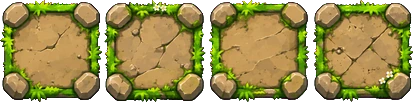
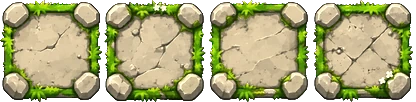
Луг: плиты под башни светлого кремового камня
Claude-Session: https://claude.ai/code/session_013R86rVRDV7uvtfdFLL6VJw

diff --git a/sw.js b/sw.js
@@ -1,6 +1,6 @@
-/* «Две базы» offline cache, version 2026.11.13-1836. A new version of this file makes phones fetch the new game;
+/* «Две базы» offline cache, version 2026.11.13-1851. A new version of this file makes phones fetch the new game;
    files whose content didn't change are copied from the old cache instead of downloaded again. */
-const V='dvebazy-2026.11.13-1836',H={"base_blue.webp": "3fa30d2184", "base_red.webp": "7dbdedfcd1", "crater.webp": "f8f526da4a", "crystal.webp": "3a4d69ffd7", "crystal_empty.webp": "e0bfd176b7", "desert.mp3": "4e820be7a4", "field_empty.webp": "1a89de323f", "field_full.webp": "5ce65390f6", "forest.mp3": "4d73b83bec", "hq_blue.webp": "9fd8e7e807", "hq_red.webp": "971d8873b5", "hv_e_blue.webp": "0fb54e58f2", "hv_e_red.webp": "dadb0cb8e0", "hv_f_blue.webp": "0eaca5d65e", "hv_f_red.webp": "1a6f973922", "intro.mp3": "d06e8482e9", "lost.mp3": "640926f4fa", "nuke.webp": "3bd289d94c", "ref_blue.webp": "55d23168b2", "ref_red.webp": "3c357584ff", "rocket.webp": "071c1a603f", "titan.mp3": "74a7fba796", "titan_hull_blue.webp": "b95fc02d02", "titan_hull_red.webp": "bc3479a55e", "titan_tur_blue.webp": "3a694cdb51", "titan_tur_red.webp": "4c836f3f95", "tw_can_blue.webp": "39c2cdb5df", "tw_can_red.webp": "11768d7b6d", "tw_mg_blue.webp": "f2a7462850", "tw_mg_red.webp": "b13edf318a", "tw_rkt_blue.webp": "890841b140", "tw_rkt_red.webp": "1cd20dd65c", "tw_tes_blue.webp": "f8dbac1346", "tw_tes_red.webp": "35dace5877", "victory.mp3": "86da21c965", "wave.webp": "02e3191a09", "winter.mp3": "c049c90e71", "voice_balist1.mp3": "a809bffd15", "voice_batk1.mp3": "bc1cce2b93", "voice_bomb1.mp3": "3e85b9b9dc", "voice_first1.mp3": "5d89f62894", "voice_first2.mp3": "6f591c10d3", "voice_first3.mp3": "de270f2917", "voice_first4.mp3": "52d929dd20", "voice_first5.mp3": "475b1aa197", "voice_first6.mp3": "d2ce90c984", "voice_first7.mp3": "222510fe73", "voice_hvdie1.mp3": "c1c6b9d714", "voice_loh1.mp3": "21e001d1e4", "voice_loh10.mp3": "41e66ff026", "voice_loh2.mp3": "e7da3dd047", "voice_loh3.mp3": "5cc145f5da", "voice_loh4.mp3": "58b7b9dbe7", "voice_loh5.mp3": "1426e425ce", "voice_loh6.mp3": "2053d0fb8a", "voice_loh7.mp3": "b546dc0fcb", "voice_loh8.mp3": "373d27d207", "voice_loh9.mp3": "ee76b7cbbf", "voice_lose1.mp3": "0965212c4d", "voice_lose2.mp3": "0272edf688", "voice_lose3.mp3": "fcb16aa0a5", "voice_lose4.mp3": "f4663fb4e3", "voice_lose5.mp3": "606ac4c1cf", "voice_lose6.mp3": "83a1fe1747", "voice_mazor1.mp3": "0a2f8341b5", "voice_mazor2.mp3": "2d0ef74267", "voice_mine2.mp3": "5ebf9d3ec6", "voice_mset1.mp3": "a35afbeb82", "voice_mvz1.mp3": "77e6ee09e0", "voice_mvz2.mp3": "fb090a12ca", "voice_nkb1.mp3": "52d38c9324", "voice_nkb2.mp3": "01c40b5760", "voice_nkb3.mp3": "39fe27bdf7", "voice_nkb4.mp3": "64aef97f88", "voice_nkb5.mp3": "4d31a020df", "voice_nkb6.mp3": "789a890588", "voice_nuke2.mp3": "8ca89b5589", "voice_ogon1.mp3": "c9d67acb12", "voice_orud1.mp3": "3026d1e2ee", "voice_rzap1.mp3": "2e0d131a35", "voice_vrag1.mp3": "028cb3b269", "voice_vrag2.mp3": "2e10b723e9", "voice_vrag3.mp3": "6079f5e810", "voice_vrag4.mp3": "8f7fa0ef37", "voice_vrag5.mp3": "e94b070c67", "voice_vrag6.mp3": "cb9915cce8", "voice_vrag7.mp3": "7ed2c5a974", "voice_vrag8.mp3": "48edfe60b2", "voice_vrag9.mp3": "8b0f4d86ee", "voice_win1.mp3": "f3f0a603b5", "voice_win2.mp3": "12950c5326", "voice_win3.mp3": "62d5e009ec", "voice_win4.mp3": "c6f262900b", "voice_win5.mp3": "63d2a5f9c8", "voice_bomb2.mp3": "2a7dccab6b", "voice_bomb3.mp3": "9939c42554", "voice_bomb4.mp3": "ae8e689c51", "voice_bomb5.mp3": "a8e38dbf99", "voice_bomb6.mp3": "5ad7691213", "voice_bomb7.mp3": "68265021c3", "voice_mset2.mp3": "e2e92e7433", "voice_mset3.mp3": "a9811a1536", "voice_mset4.mp3": "8173956a14", "voice_tout1.mp3": "e36d93eff4", "voice_tout2.mp3": "32e7428350", "voice_tout3.mp3": "9fca62bcdf", "voice_tout4.mp3": "3e314749bc", "voice_tout5.mp3": "5fcc940e4d", "voice_tout6.mp3": "fac430fb0f", "voice_tout7.mp3": "979fea3bea", "voice_tout8.mp3": "01a95c5d7b", "voice_tout9.mp3": "6bfcb1b4f9", "voice_etout1.mp3": "43c1b6aaf3", "voice_etout2.mp3": "bd5d728dc7", "voice_etout3.mp3": "9fd5dfc497", "voice_etout4.mp3": "781294a546", "voice_etout5.mp3": "d430e427bc", "voice_orud2.mp3": "aa9e1b81be", "voice_orud3.mp3": "705171a146", "voice_orud4.mp3": "238aca5997", "voice_orud5.mp3": "339952603c", "voice_tlow1.mp3": "785ec7eec0", "voice_tlow2.mp3": "96d601ac89", "voice_tlow3.mp3": "74a22eaaeb", "voice_tlow4.mp3": "fe8e1de87d", "voice_tlow5.mp3": "3cc923bbde", "voice_tlow6.mp3": "4c544afc32", "voice_tlow7.mp3": "32148d5608", "voice_tlow8.mp3": "aa26e23409", "voice_tlow9.mp3": "3085b4d856", "sw2_grass.webp": "ae9bb5b54f", "sw2_mud.webp": "be0d1aced4", "sw2_water.webp": "e2eb74a170", "sw2_atlas.webp": "427607d22b", "sw2_atlas2.webp": "8e1c286c2d", "sw2_pads.webp": "1d18fc9a44", "sw2_atlas3.webp": "28ae61a313", "campaign_map.webp": "a477e42c26", "camp_flags.webp": "bdd397d7fb", "gate_l.webp": "33dd6c659c", "gate_r.webp": "bce02067fe", "gate_logo.webp": "975690c1a2", "hg_icons_free.webp": "910e6c103f", "hg_icons_sup.webp": "25639c2240", "hg_icons_harv.webp": "787070f3e2", "hg_icons_tow.webp": "7943557806", "hg_icons_tit.webp": "2a0621a74b", "mrd_s.webp": "9e3aaed637", "mrd_c.webp": "9969b8a8a2", "meadow_pads.webp": "53b35c03c0", "manifest.webmanifest": "7015537d8d", "icon-192.png": "3f01f503e0", "icon-512.png": "ea3305bba6", "icon-180.png": "5713f46e1f", "splash-512.png": "03f3510d8f"};
+const V='dvebazy-2026.11.13-1851',H={"base_blue.webp": "3fa30d2184", "base_red.webp": "7dbdedfcd1", "crater.webp": "f8f526da4a", "crystal.webp": "3a4d69ffd7", "crystal_empty.webp": "e0bfd176b7", "desert.mp3": "4e820be7a4", "field_empty.webp": "1a89de323f", "field_full.webp": "5ce65390f6", "forest.mp3": "4d73b83bec", "hq_blue.webp": "9fd8e7e807", "hq_red.webp": "971d8873b5", "hv_e_blue.webp": "0fb54e58f2", "hv_e_red.webp": "dadb0cb8e0", "hv_f_blue.webp": "0eaca5d65e", "hv_f_red.webp": "1a6f973922", "intro.mp3": "d06e8482e9", "lost.mp3": "640926f4fa", "nuke.webp": "3bd289d94c", "ref_blue.webp": "55d23168b2", "ref_red.webp": "3c357584ff", "rocket.webp": "071c1a603f", "titan.mp3": "74a7fba796", "titan_hull_blue.webp": "b95fc02d02", "titan_hull_red.webp": "bc3479a55e", "titan_tur_blue.webp": "3a694cdb51", "titan_tur_red.webp": "4c836f3f95", "tw_can_blue.webp": "39c2cdb5df", "tw_can_red.webp": "11768d7b6d", "tw_mg_blue.webp": "f2a7462850", "tw_mg_red.webp": "b13edf318a", "tw_rkt_blue.webp": "890841b140", "tw_rkt_red.webp": "1cd20dd65c", "tw_tes_blue.webp": "f8dbac1346", "tw_tes_red.webp": "35dace5877", "victory.mp3": "86da21c965", "wave.webp": "02e3191a09", "winter.mp3": "c049c90e71", "voice_balist1.mp3": "a809bffd15", "voice_batk1.mp3": "bc1cce2b93", "voice_bomb1.mp3": "3e85b9b9dc", "voice_first1.mp3": "5d89f62894", "voice_first2.mp3": "6f591c10d3", "voice_first3.mp3": "de270f2917", "voice_first4.mp3": "52d929dd20", "voice_first5.mp3": "475b1aa197", "voice_first6.mp3": "d2ce90c984", "voice_first7.mp3": "222510fe73", "voice_hvdie1.mp3": "c1c6b9d714", "voice_loh1.mp3": "21e001d1e4", "voice_loh10.mp3": "41e66ff026", "voice_loh2.mp3": "e7da3dd047", "voice_loh3.mp3": "5cc145f5da", "voice_loh4.mp3": "58b7b9dbe7", "voice_loh5.mp3": "1426e425ce", "voice_loh6.mp3": "2053d0fb8a", "voice_loh7.mp3": "b546dc0fcb", "voice_loh8.mp3": "373d27d207", "voice_loh9.mp3": "ee76b7cbbf", "voice_lose1.mp3": "0965212c4d", "voice_lose2.mp3": "0272edf688", "voice_lose3.mp3": "fcb16aa0a5", "voice_lose4.mp3": "f4663fb4e3", "voice_lose5.mp3": "606ac4c1cf", "voice_lose6.mp3": "83a1fe1747", "voice_mazor1.mp3": "0a2f8341b5", "voice_mazor2.mp3": "2d0ef74267", "voice_mine2.mp3": "5ebf9d3ec6", "voice_mset1.mp3": "a35afbeb82", "voice_mvz1.mp3": "77e6ee09e0", "voice_mvz2.mp3": "fb090a12ca", "voice_nkb1.mp3": "52d38c9324", "voice_nkb2.mp3": "01c40b5760", "voice_nkb3.mp3": "39fe27bdf7", "voice_nkb4.mp3": "64aef97f88", "voice_nkb5.mp3": "4d31a020df", "voice_nkb6.mp3": "789a890588", "voice_nuke2.mp3": "8ca89b5589", "voice_ogon1.mp3": "c9d67acb12", "voice_orud1.mp3": "3026d1e2ee", "voice_rzap1.mp3": "2e0d131a35", "voice_vrag1.mp3": "028cb3b269", "voice_vrag2.mp3": "2e10b723e9", "voice_vrag3.mp3": "6079f5e810", "voice_vrag4.mp3": "8f7fa0ef37", "voice_vrag5.mp3": "e94b070c67", "voice_vrag6.mp3": "cb9915cce8", "voice_vrag7.mp3": "7ed2c5a974", "voice_vrag8.mp3": "48edfe60b2", "voice_vrag9.mp3": "8b0f4d86ee", "voice_win1.mp3": "f3f0a603b5", "voice_win2.mp3": "12950c5326", "voice_win3.mp3": "62d5e009ec", "voice_win4.mp3": "c6f262900b", "voice_win5.mp3": "63d2a5f9c8", "voice_bomb2.mp3": "2a7dccab6b", "voice_bomb3.mp3": "9939c42554", "voice_bomb4.mp3": "ae8e689c51", "voice_bomb5.mp3": "a8e38dbf99", "voice_bomb6.mp3": "5ad7691213", "voice_bomb7.mp3": "68265021c3", "voice_mset2.mp3": "e2e92e7433", "voice_mset3.mp3": "a9811a1536", "voice_mset4.mp3": "8173956a14", "voice_tout1.mp3": "e36d93eff4", "voice_tout2.mp3": "32e7428350", "voice_tout3.mp3": "9fca62bcdf", "voice_tout4.mp3": "3e314749bc", "voice_tout5.mp3": "5fcc940e4d", "voice_tout6.mp3": "fac430fb0f", "voice_tout7.mp3": "979fea3bea", "voice_tout8.mp3": "01a95c5d7b", "voice_tout9.mp3": "6bfcb1b4f9", "voice_etout1.mp3": "43c1b6aaf3", "voice_etout2.mp3": "bd5d728dc7", "voice_etout3.mp3": "9fd5dfc497", "voice_etout4.mp3": "781294a546", "voice_etout5.mp3": "d430e427bc", "voice_orud2.mp3": "aa9e1b81be", "voice_orud3.mp3": "705171a146", "voice_orud4.mp3": "238aca5997", "voice_orud5.mp3": "339952603c", "voice_tlow1.mp3": "785ec7eec0", "voice_tlow2.mp3": "96d601ac89", "voice_tlow3.mp3": "74a22eaaeb", "voice_tlow4.mp3": "fe8e1de87d", "voice_tlow5.mp3": "3cc923bbde", "voice_tlow6.mp3": "4c544afc32", "voice_tlow7.mp3": "32148d5608", "voice_tlow8.mp3": "aa26e23409", "voice_tlow9.mp3": "3085b4d856", "sw2_grass.webp": "ae9bb5b54f", "sw2_mud.webp": "be0d1aced4", "sw2_water.webp": "e2eb74a170", "sw2_atlas.webp": "427607d22b", "sw2_atlas2.webp": "8e1c286c2d", "sw2_pads.webp": "1d18fc9a44", "sw2_atlas3.webp": "28ae61a313", "campaign_map.webp": "a477e42c26", "camp_flags.webp": "bdd397d7fb", "gate_l.webp": "33dd6c659c", "gate_r.webp": "bce02067fe", "gate_logo.webp": "975690c1a2", "hg_icons_free.webp": "910e6c103f", "hg_icons_sup.webp": "25639c2240", "hg_icons_harv.webp": "787070f3e2", "hg_icons_tow.webp": "7943557806", "hg_icons_tit.webp": "2a0621a74b", "mrd_s.webp": "9e3aaed637", "mrd_c.webp": "9969b8a8a2", "meadow_pads.webp": "e418aaa08e", "manifest.webmanifest": "7015537d8d", "icon-192.png": "3f01f503e0", "icon-512.png": "ea3305bba6", "icon-180.png": "5713f46e1f", "splash-512.png": "03f3510d8f"};
 self.addEventListener('install',e=>{self.skipWaiting();e.waitUntil((async()=>{const c=await caches.open(V);let oldH={},old=null;
  for(const k of await caches.keys()){if(k===V)continue;const o=await caches.open(k);const r=await o.match('__hashes');if(r){try{oldH=await r.json();old=o;}catch(_){}}}
  await Promise.all(Object.keys(H).map(async f=>{try{if(old&&oldH[f]===H[f]){const r=await old.match(f);if(r){await c.put(f,r);return;}}await c.add(new Request(f,{cache:'reload'}));}catch(_){}}));

diff --git a/index.html b/index.html
@@ -3009,9 +3009,9 @@ window.__dbg={get W(){return W},simStep,doCmd,botThink,packSnap,onSnap,setCode:c
 requestAnimationFrame(frame);
 </script>
 
-<div id="appVer">v2026.11.13-1836</div>
+<div id="appVer">v2026.11.13-1851</div>
 <script>
-window.APP_VERSION='2026.11.13-1836';
+window.APP_VERSION='2026.11.13-1851';
 /* the version label only on the lobby screen */
 setInterval(()=>{const l=document.getElementById('lobby'),v=document.getElementById('appVer');if(l&&v)v.style.display=l.hidden?'none':'';},500);
 if('serviceWorker' in navigator){let reloaded=false;
